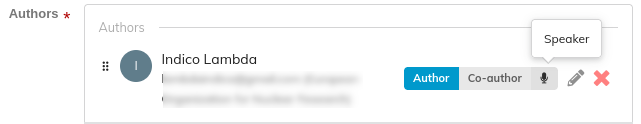
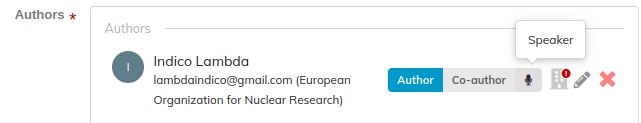
Instructions for multiple affiliations

diff --git a/docs/General/submission.md b/docs/General/submission.md
@@ -38,6 +38,14 @@ All fields marked with a **red star** are mandatory. Below the image all needed 
   
     * then mark the person that will present this abstract at the conference as "**Speaker**" (for posters this will be "*presenter*"). To perform this action  **click on the "*Speaker*" icon** to the right of the name
   
+    * you can change the default affiliation by clicking on the "Multiple Affiliations" icon:
+      ![](img/author_edit_affiliations.png)
+      which opens a new window where you can search for the affiliation you want:
+      ![](img/affiliation_search.png)
+      You can repeat the search and select as many affiliations you need for this author:
+      ![](img/affiliation_search_result.png)
+      After saving the multiple affiliations will be displayed for this author:![](img/author_multiple_affiliations.png)
+  
     * if you cannot find the right person in the Central Repository, please follow the directions in the [Creating JACoW profiles for new authors](#creating-jacow-profiles-for-new-authors) section below, then do the search again and select the newly created profile
 
 ---

diff --git a/docs/General/contributions.md b/docs/General/contributions.md
@@ -30,7 +30,7 @@ In particular:
 
 - **Description**: this is the abstract for the contribution. Please use text-only material (i.e., no MarkDown, no HTML, no LaTeX, ...) and avoid copying and pasting from word processors which could introduce badly printing symbols;
 
-- **List of authors/speakers** (People): we recommend to use the "Author" type for the corresponding/first author and  "Co-author" for all the others. The order is important ans should [reflect the list of authors in the paper (alphabetical order grouped by affiliation)](https://www.jacow.org/Editors/CommonAuthorOversights).
+- **List of authors/speakers** (People): we recommend to use the "Author" type for the corresponding/first author and  "Co-author" for all the others. The order is not important ans since it will be adjusted automatically when creating the proceedings.
 
 ![](img/contributionedit.png)
 
